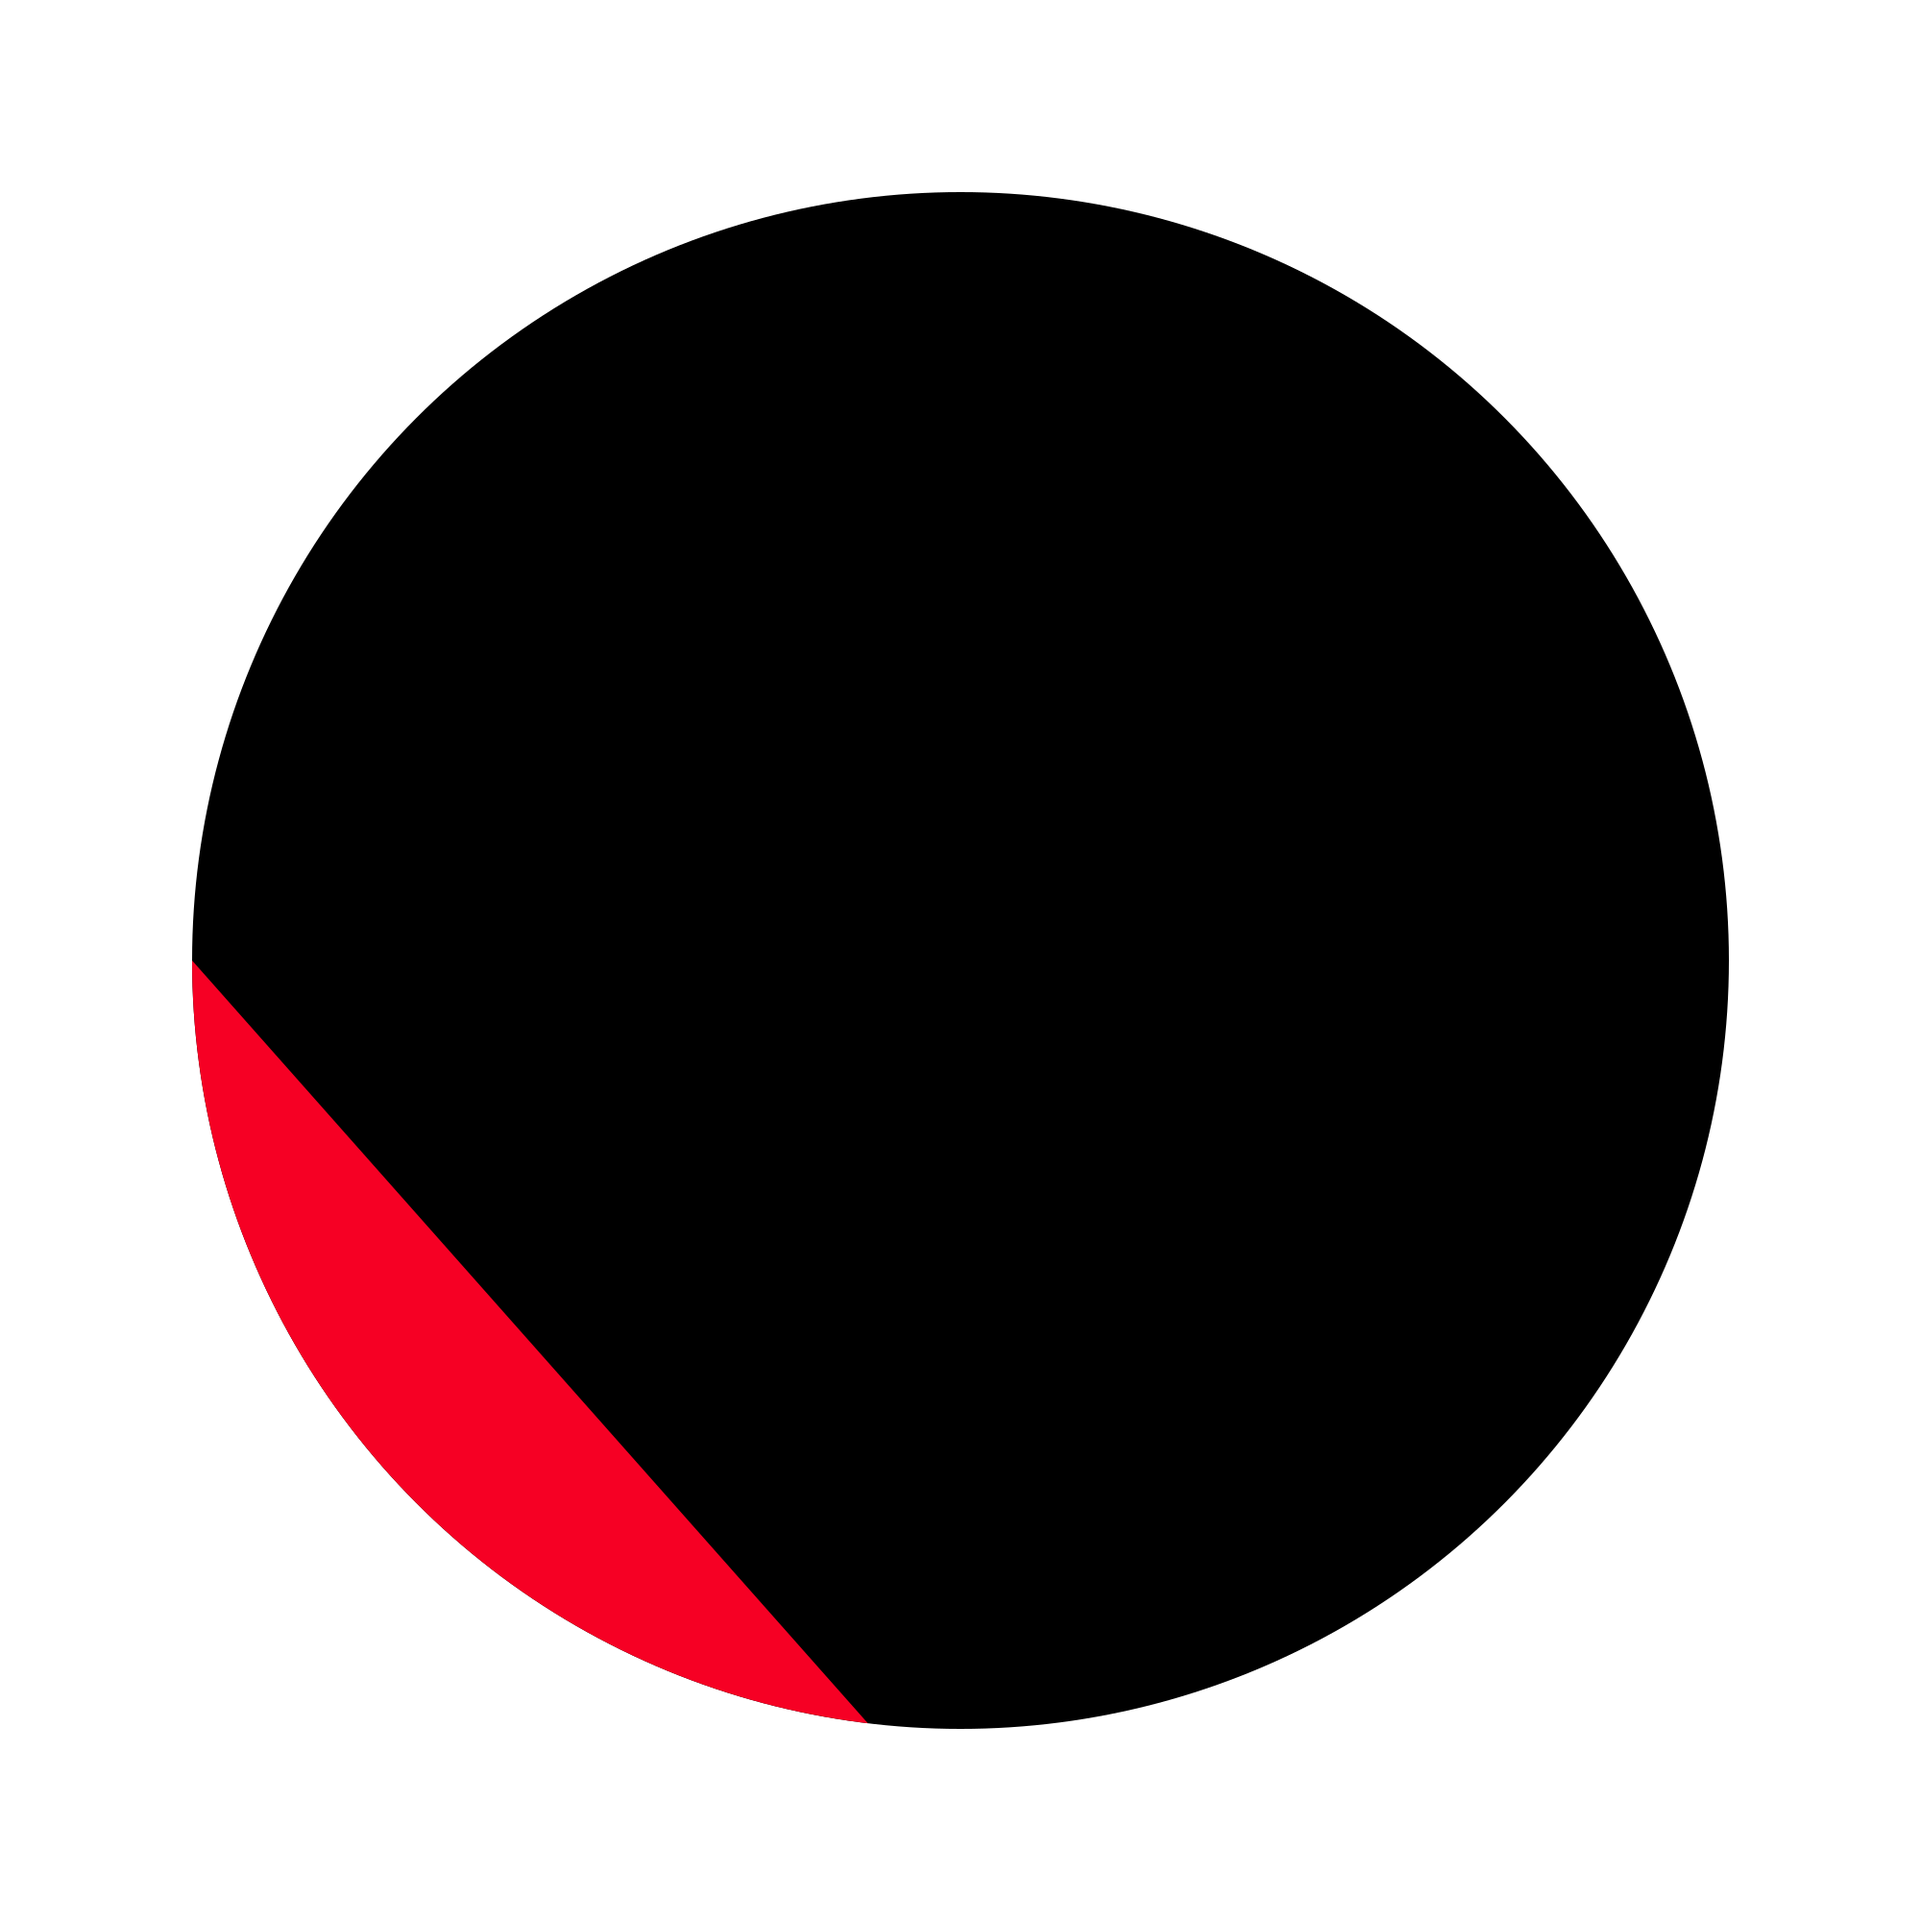
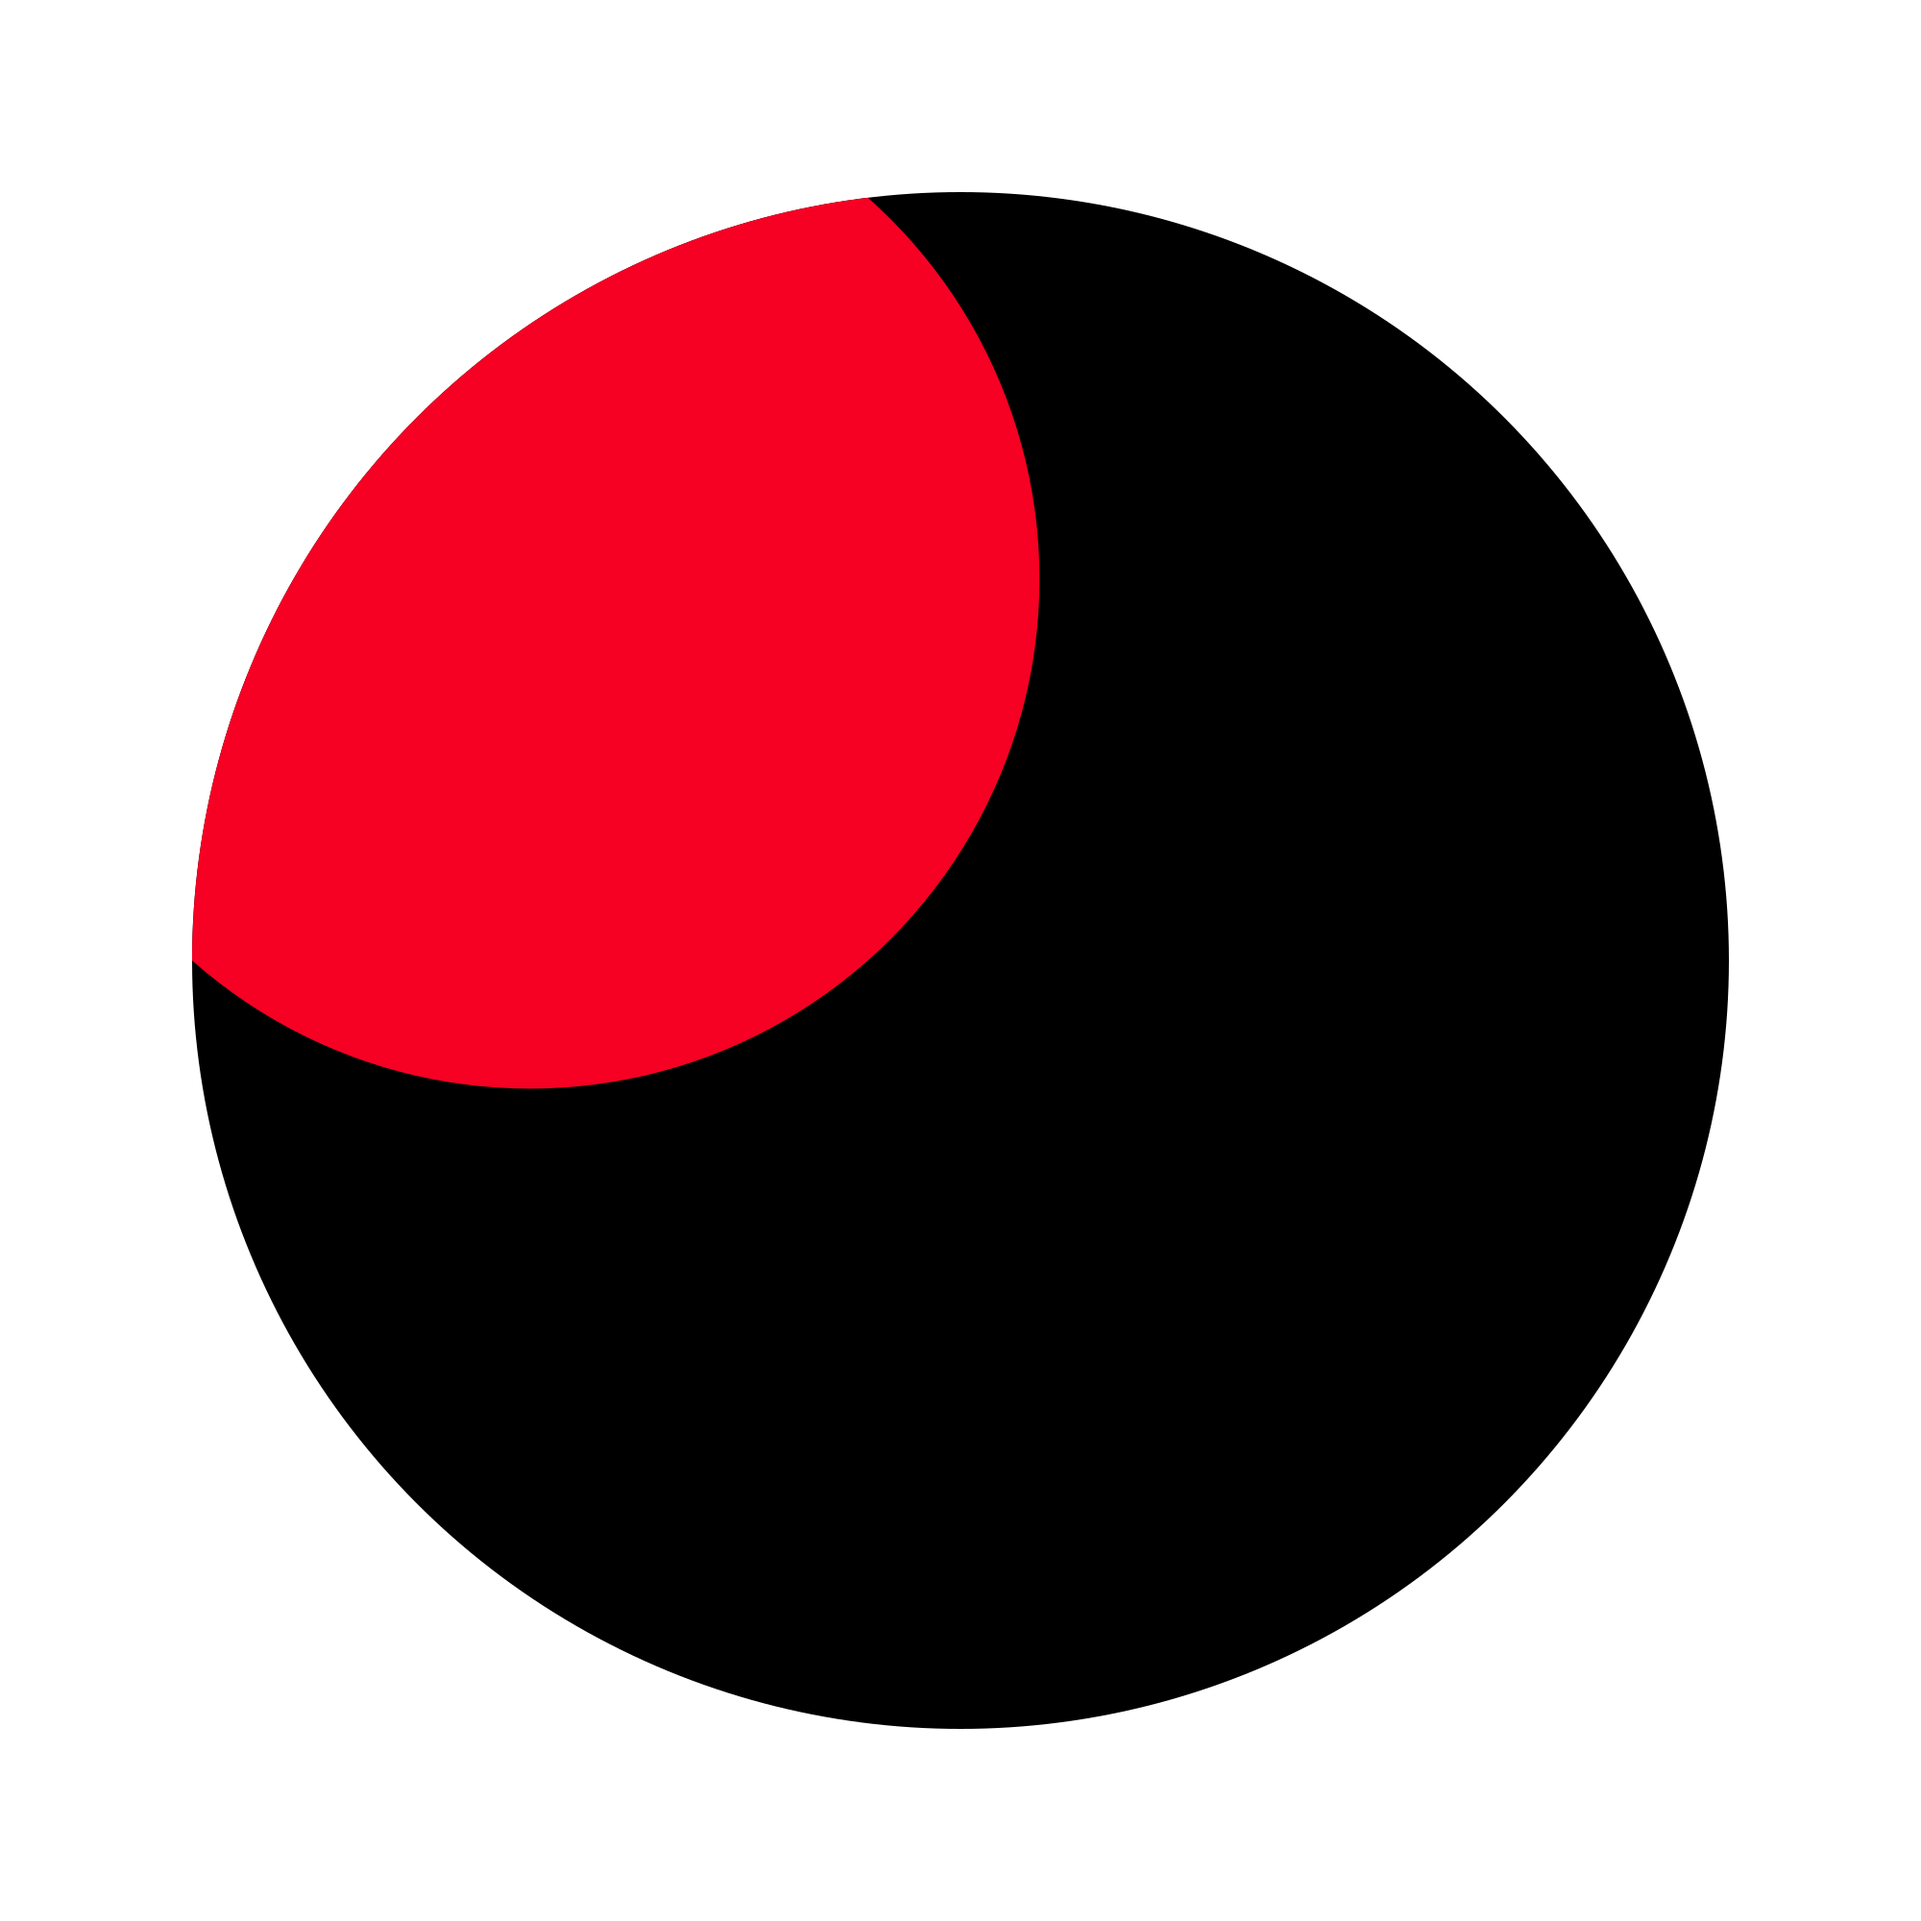
Still working on calculateCircDrawParams.ts, circles are being drawn in the wrong places.

Changed region(s): [[0.093, 0.093, 0.558, 0.899]]

diff --git a/src/calculateCircDrawParams.ts b/src/calculateCircDrawParams.ts
@@ -2,7 +2,7 @@ import { CircDrawParams } from './types.js';
 
 import { CanvasRenderingContext2D, Canvas } from 'canvas';
 
-const calculateCircDrawParams = (letter: string, index: number, color: string, ctx: CanvasRenderingContext2D, canvas: Canvas): CircDrawParams => {
+const calculateCircDrawParams = (letter: string, index: number, length: number, color: string, ctx: CanvasRenderingContext2D, canvas: Canvas): CircDrawParams => {
   // circle should be drawn as follows:
   // The center of the circle is defined as the center point of a line drawn from a point on along the circumference of the main circle, to another point along the circumference of the main circle.
   // The first point that is defined along the circumference is determined by what letter of the alphabet is being represented.
@@ -23,16 +23,16 @@ const calculateCircDrawParams = (letter: string, index: number, color: string, c
   const totalLetters = alphabet.length;
 
   const firstPointDeg = (letterIndex / totalLetters) * 360;
-  const secondPointDeg = 180 + (index * 360) / totalLetters;
+  const secondPointDeg = 180 + (index * 360) / length;
 
   const firstPointRad = (firstPointDeg * Math.PI) / 180;
   const secondPointRad = (secondPointDeg * Math.PI) / 180;
 
   const firstPointX = centerX + mainRadius * Math.cos(firstPointRad);
-  const firstPointY = centerY + mainRadius * Math.sin(firstPointRad);
+  const firstPointY = centerY - mainRadius * Math.sin(firstPointRad);
 
   const secondPointX = centerX + mainRadius * Math.cos(secondPointRad);
-  const secondPointY = centerY + mainRadius * Math.sin(secondPointRad);
+  const secondPointY = centerY - mainRadius * Math.sin(secondPointRad);
 
   const newCenterX = (firstPointX + secondPointX) / 2;
   const newCenterY = (firstPointY + secondPointY) / 2;

diff --git a/src/generatePng.ts b/src/generatePng.ts
@@ -5,10 +5,10 @@ import drawCircle from './drawCircle.js';
 
 import saveCanvasToPng from './saveCanvasToPng.js';
 
-const generatePng = (letter: string, index: number, color: string): Buffer => {
+const generatePng = (letter: string, index: number, length: number, color: string): Buffer => {
   const { ctx, canvas } = setupCanvas();
 
-  const circleParams = calculateCircDrawParams(letter, index, color, ctx, canvas);
+  const circleParams = calculateCircDrawParams(letter, index, length, color, ctx, canvas);
 
   drawCircle(circleParams);
 

diff --git a/src/app.ts b/src/app.ts
@@ -7,7 +7,7 @@ const app = async (word: string): Promise<void> => {
 
   const pngArr = [];
   for (let i = 0; i < word.length; i++) {
-    pngArr.push(generatePng(word[i], i, colors[i]));
+    pngArr.push(generatePng(word[i], i, word.length, colors[i]));
   }
 };
 
